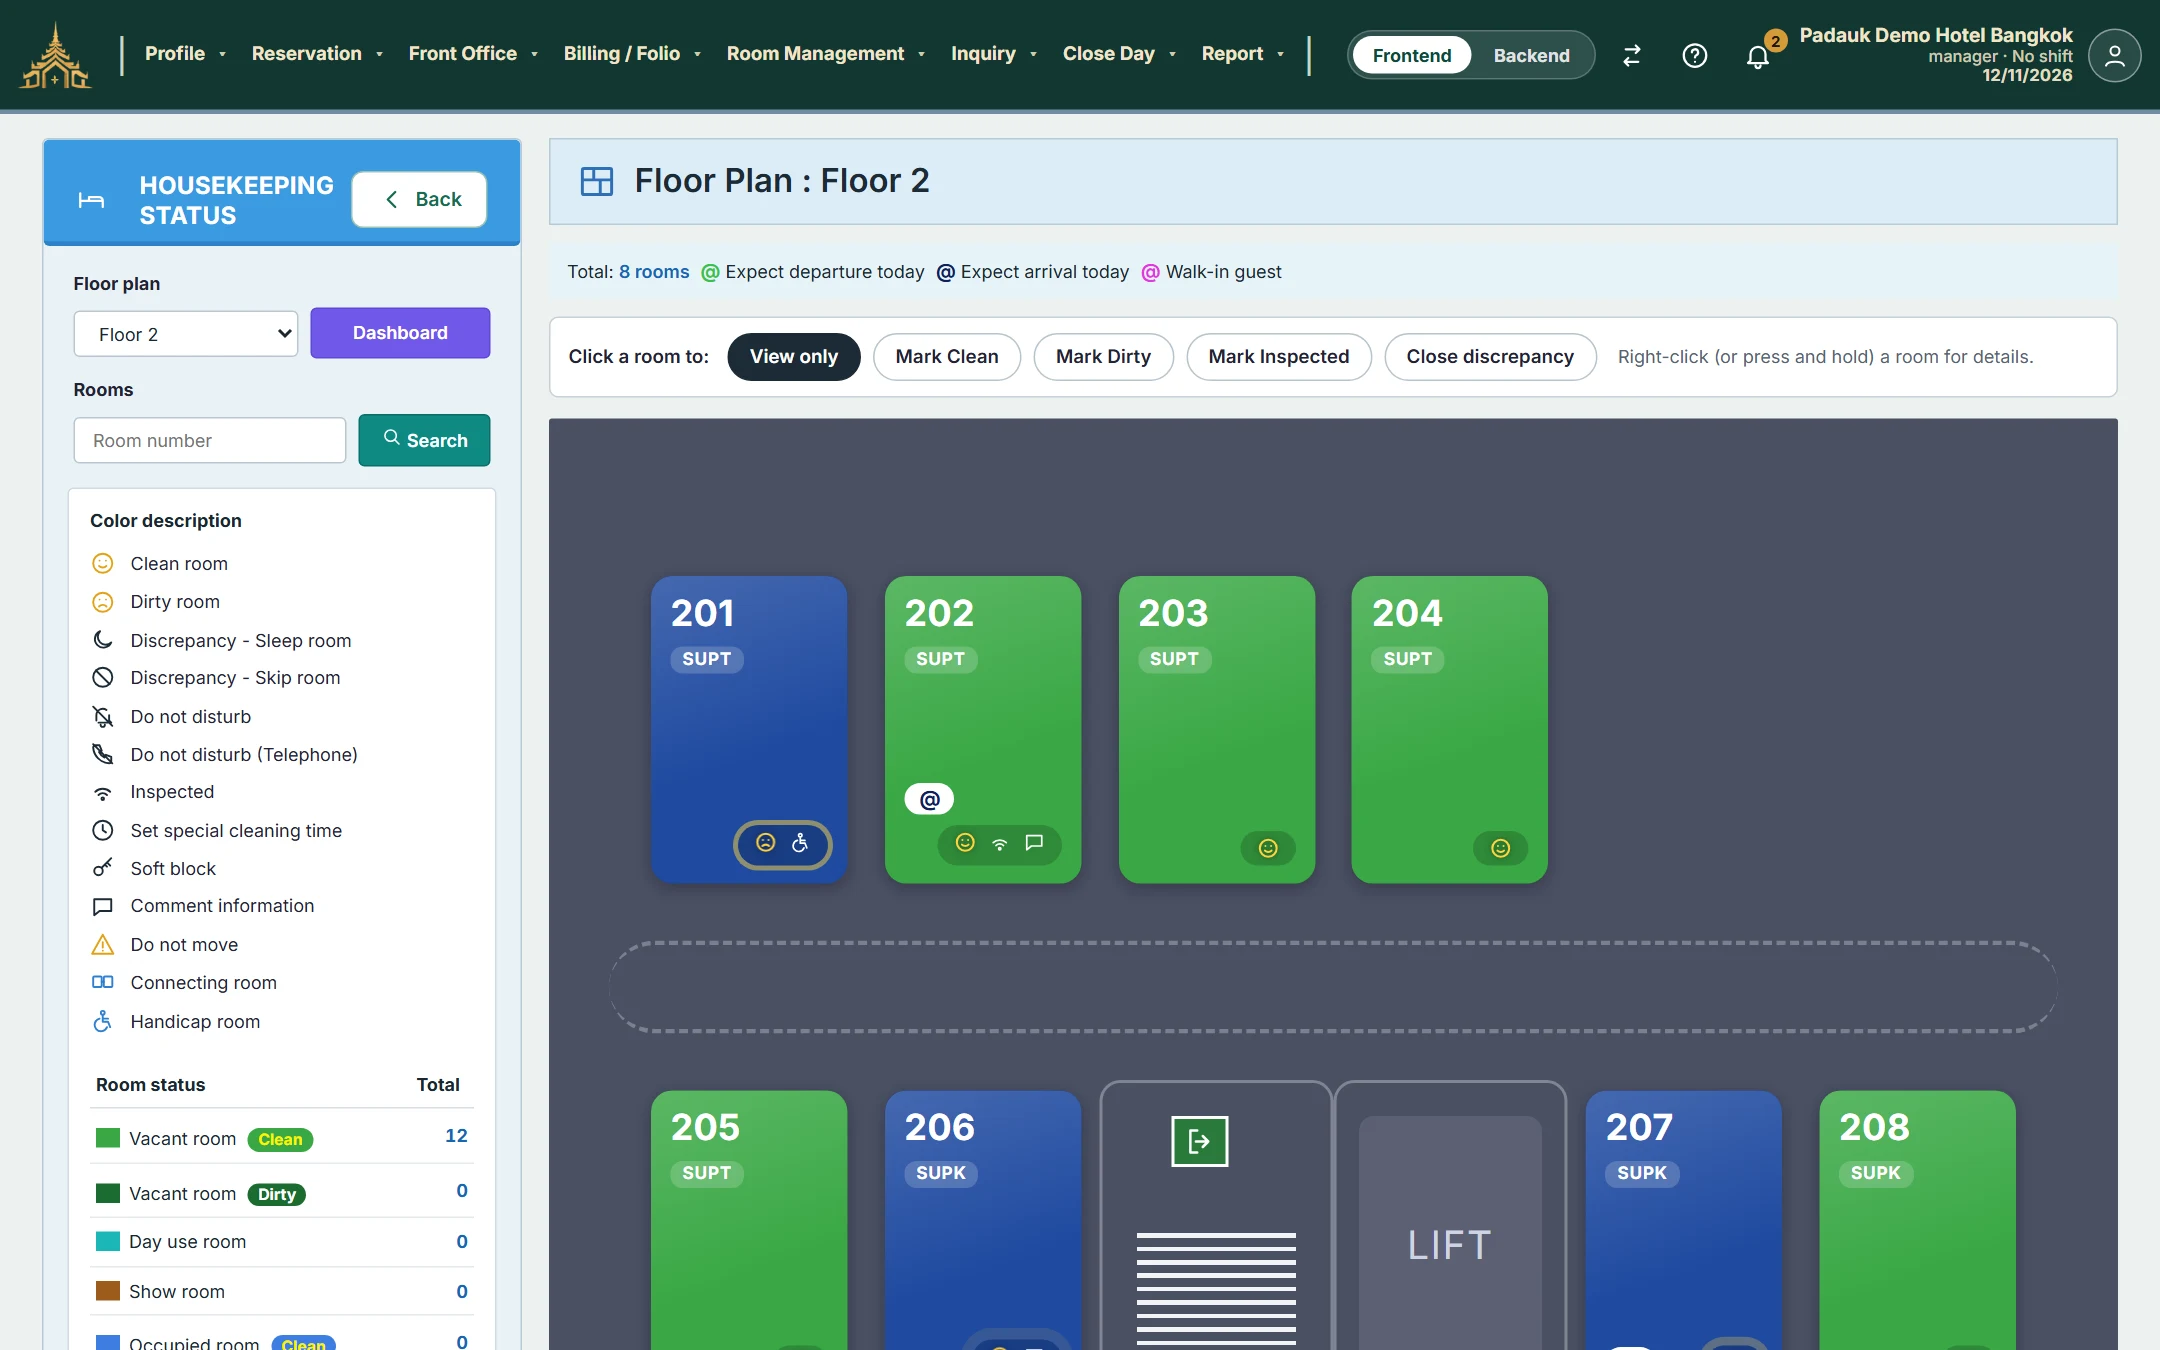
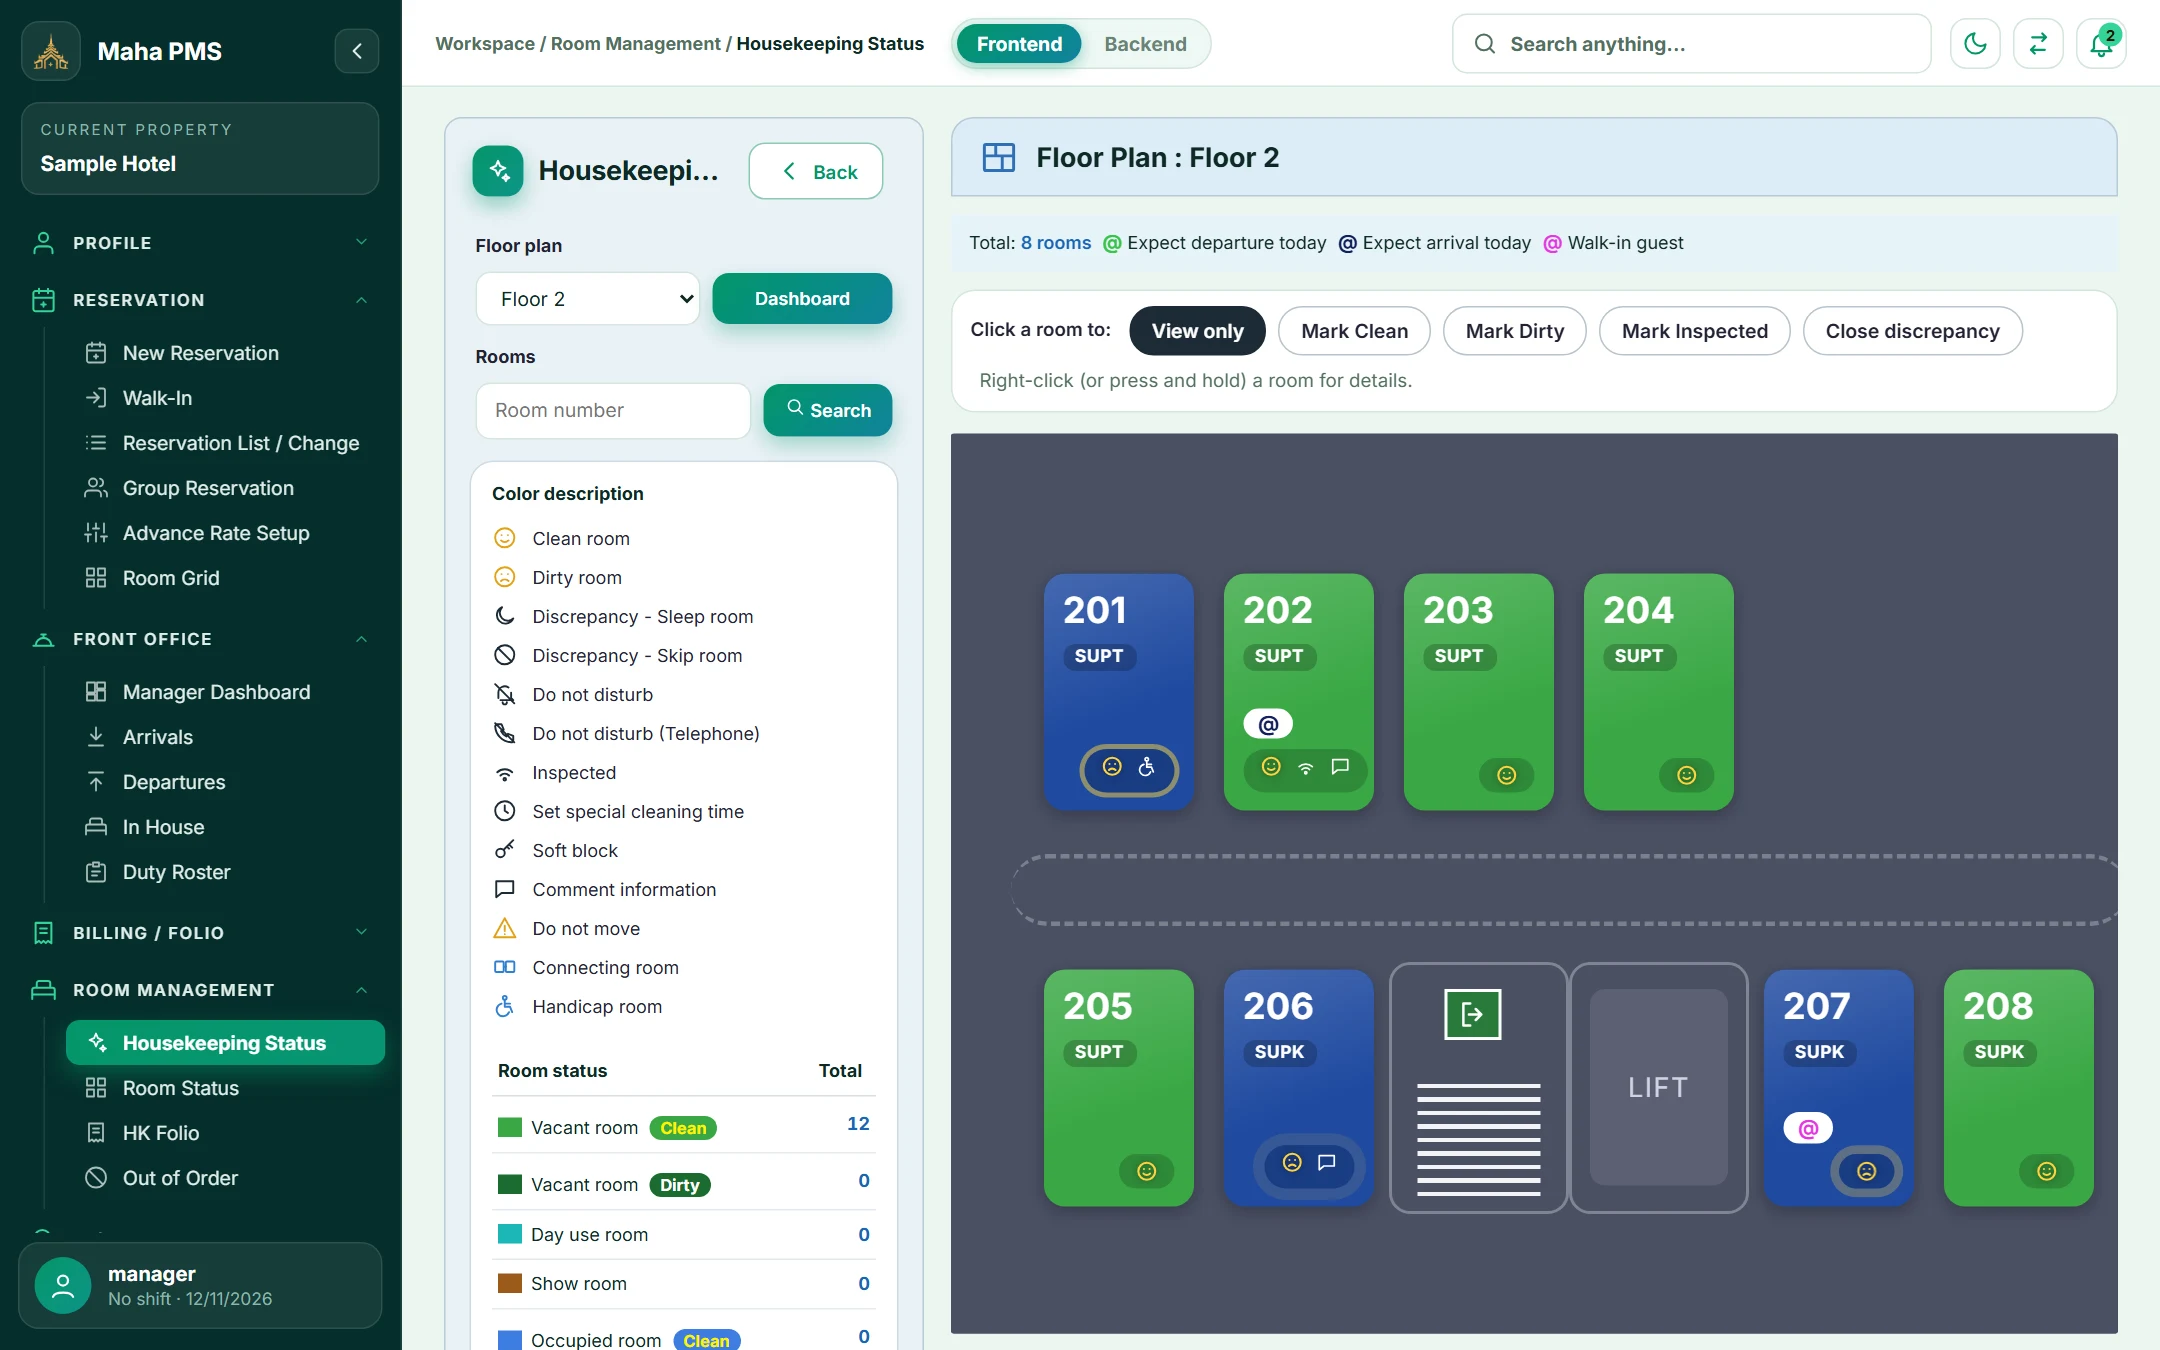
Website screens: Modern look of Maha PMS (left menu), sample names only (Sample Hotel, Guest Sample A, Sample Hotel 01...), near-full screens, Manager dashboard added

diff --git a/index.html b/index.html
@@ -59,7 +59,7 @@
       <div class="trust"><span>Made for hotel teams</span><span>One sign-in</span><span>Honest about what is ready</span></div>
     </div>
     <div class="dev">
-      <div class="laptop"><div class="dots"><i></i><i></i><i></i></div><div class="cyc "><img src="/assets/site/pms-status.webp" alt="Maha PMS: room status (demo data)" data-cap="Maha PMS: room status" width="2160" height="1350" fetchpriority="high"><img src="/assets/site/pms-grid.webp" alt="Maha PMS: room grid (demo data)" data-cap="Maha PMS: room grid" width="2160" height="1350" loading="lazy"><img src="/assets/site/crm-dashboard.webp" alt="Maha Sales: dashboard (demo data)" data-cap="Maha Sales: dashboard" width="2160" height="1350" loading="lazy"><img src="/assets/site/pms-housekeeping.webp" alt="Maha PMS: housekeeping (demo data)" data-cap="Maha PMS: housekeeping" width="2160" height="1350" loading="lazy"><img src="/assets/site/booking-demo.webp" alt="Maha Booking: pick a time (demo data)" data-cap="Maha Booking: pick a time" width="2160" height="1350" loading="lazy"><span class="cap"></span></div></div>
+      <div class="laptop"><div class="dots"><i></i><i></i><i></i></div><div class="cyc "><img src="/assets/site/pms-dashboard.webp" alt="Maha PMS: manager dashboard (demo data)" data-cap="Maha PMS: manager dashboard" width="2160" height="1350" fetchpriority="high"><img src="/assets/site/pms-status.webp" alt="Maha PMS: room status (demo data)" data-cap="Maha PMS: room status" width="2160" height="1350" loading="lazy"><img src="/assets/site/pms-grid.webp" alt="Maha PMS: room grid (demo data)" data-cap="Maha PMS: room grid" width="2160" height="1350" loading="lazy"><img src="/assets/site/crm-dashboard.webp" alt="Maha Sales: dashboard (demo data)" data-cap="Maha Sales: dashboard" width="2160" height="1350" loading="lazy"><img src="/assets/site/pms-housekeeping.webp" alt="Maha PMS: housekeeping (demo data)" data-cap="Maha PMS: housekeeping" width="2160" height="1350" loading="lazy"><img src="/assets/site/booking-demo.webp" alt="Maha Booking: pick a time (demo data)" data-cap="Maha Booking: pick a time" width="2160" height="1350" loading="lazy"><span class="cap"></span></div></div>
       <div class="float a"><i>&#10003;</i>One hotel record for every team</div><div class="float b"><i>&#9733;</i>Direct bookings, no retyping</div>
     </div>
   </div>
@@ -97,14 +97,15 @@
     <div class="sec-head center reveal"><p class="eyebrow">See it working</p><h2>Our real screens, not pictures of ideas.</h2><p class="lead">These are screens from our own systems, shown with demo data. Choose a screen to look closer.</p></div>
     <div class="show reveal">
       <div class="tabs" role="tablist">
-        <button class="tab on" type="button" role="tab"><b>Front desk</b><span>Arrivals, departures and room status</span><i></i></button>
+        <button class="tab on" type="button" role="tab"><b>Manager dashboard</b><span>The day at a glance: arrivals, due out, revenue</span><i></i></button>
+        <button class="tab" type="button" role="tab"><b>Hotel status</b><span>Arrivals, departures and room status</span><i></i></button>
         <button class="tab" type="button" role="tab"><b>Room grid</b><span>Two weeks of bookings at a glance</span><i></i></button>
         <button class="tab" type="button" role="tab"><b>Housekeeping</b><span>Every room on its floor: clean, dirty, inspected</span><i></i></button>
         <button class="tab" type="button" role="tab"><b>Sales dashboard</b><span>Hotel leads and progress</span><i></i></button>
         <button class="tab" type="button" role="tab"><b>Meetings</b><span>Calls and visits, planned and done</span><i></i></button>
         <button class="tab" type="button" role="tab"><b>Direct booking</b><span>Guests pick a time or a room, in their own time zone</span><i></i></button>
       </div>
-      <div class="stage"><div class="cyc"><img src="/assets/site/pms-status.webp" alt="Maha PMS: room status (demo data)" data-cap="Maha PMS: room status" width="2160" height="1350"><img src="/assets/site/pms-grid.webp" alt="Maha PMS: room grid (demo data)" data-cap="Maha PMS: room grid" width="2160" height="1350" loading="lazy"><img src="/assets/site/pms-housekeeping.webp" alt="Maha PMS: housekeeping (demo data)" data-cap="Maha PMS: housekeeping" width="2160" height="1350" loading="lazy"><img src="/assets/site/crm-dashboard.webp" alt="Maha Sales: dashboard (demo data)" data-cap="Maha Sales: dashboard" width="2160" height="1350" loading="lazy"><img src="/assets/site/crm-meetings.webp" alt="Maha Sales: meetings (demo data)" data-cap="Maha Sales: meetings" width="2160" height="1350" loading="lazy"><img src="/assets/site/booking-demo.webp" alt="Maha Booking: pick a time (demo data)" data-cap="Maha Booking: pick a time" width="2160" height="1350" loading="lazy"><span class="cap"></span></div></div>
+      <div class="stage"><div class="cyc"><img src="/assets/site/pms-dashboard.webp" alt="Maha PMS: manager dashboard (demo data)" data-cap="Maha PMS: manager dashboard" width="2160" height="1350"><img src="/assets/site/pms-status.webp" alt="Maha PMS: room status (demo data)" data-cap="Maha PMS: room status" width="2160" height="1350" loading="lazy"><img src="/assets/site/pms-grid.webp" alt="Maha PMS: room grid (demo data)" data-cap="Maha PMS: room grid" width="2160" height="1350" loading="lazy"><img src="/assets/site/pms-housekeeping.webp" alt="Maha PMS: housekeeping (demo data)" data-cap="Maha PMS: housekeeping" width="2160" height="1350" loading="lazy"><img src="/assets/site/crm-dashboard.webp" alt="Maha Sales: dashboard (demo data)" data-cap="Maha Sales: dashboard" width="2160" height="1350" loading="lazy"><img src="/assets/site/crm-meetings.webp" alt="Maha Sales: meetings (demo data)" data-cap="Maha Sales: meetings" width="2160" height="1350" loading="lazy"><img src="/assets/site/booking-demo.webp" alt="Maha Booking: pick a time (demo data)" data-cap="Maha Booking: pick a time" width="2160" height="1350" loading="lazy"><span class="cap"></span></div></div>
     </div>
   </div>
 </section>

diff --git a/products.html b/products.html
@@ -67,7 +67,7 @@
     <p class="lead" style="font-size:18px">The core of Maha Solutions: property, rooms, rates, reservations, front office and billing in one connected workspace.</p>
     
     <div class="hero-cta" style="margin-top:18px"><button class="btn btn-green" type="button" data-book="demo">Book a Demo</button><a class="btn btn-line-dark" href="/solutions">Sign in</a></div></div>
-  <div class="reveal"><div class="card"><h4 style="margin-bottom:14px">What it covers</h4><ul class="ticks" style="margin:0;grid-template-columns:repeat(auto-fit,minmax(200px,1fr))"><li>Property and rooms</li><li>Rates</li><li>Reservations</li><li>Front office</li><li>Folio and billing</li><li>Guest profiles</li><li>Housekeeping</li><li>Reports</li><li>User roles</li></ul></div><div class="dev"><div class="laptop"><div class="dots"><i></i><i></i><i></i></div><div class="cyc "><img src="/assets/site/pms-status.webp" alt="Maha PMS: room status (demo data)" data-cap="Maha PMS: room status" width="2160" height="1350" fetchpriority="high"><img src="/assets/site/pms-grid.webp" alt="Maha PMS: room grid (demo data)" data-cap="Maha PMS: room grid" width="2160" height="1350" loading="lazy"><img src="/assets/site/pms-inhouse.webp" alt="Maha PMS: in-house guests (demo data)" data-cap="Maha PMS: in-house guests" width="2160" height="1350" loading="lazy"><img src="/assets/site/pms-housekeeping.webp" alt="Maha PMS: housekeeping (demo data)" data-cap="Maha PMS: housekeeping" width="2160" height="1350" loading="lazy"><img src="/assets/site/pms-roomstatus.webp" alt="Maha PMS: rooms (demo data)" data-cap="Maha PMS: rooms" width="2160" height="1350" loading="lazy"><img src="/assets/site/pms-arrivals.webp" alt="Maha PMS: arrivals (demo data)" data-cap="Maha PMS: arrivals" width="2160" height="1350" loading="lazy"><span class="cap"></span></div></div></div></div>
+  <div class="reveal"><div class="card"><h4 style="margin-bottom:14px">What it covers</h4><ul class="ticks" style="margin:0;grid-template-columns:repeat(auto-fit,minmax(200px,1fr))"><li>Property and rooms</li><li>Rates</li><li>Reservations</li><li>Front office</li><li>Folio and billing</li><li>Guest profiles</li><li>Housekeeping</li><li>Reports</li><li>User roles</li></ul></div><div class="dev"><div class="laptop"><div class="dots"><i></i><i></i><i></i></div><div class="cyc "><img src="/assets/site/pms-dashboard.webp" alt="Maha PMS: manager dashboard (demo data)" data-cap="Maha PMS: manager dashboard" width="2160" height="1350" fetchpriority="high"><img src="/assets/site/pms-status.webp" alt="Maha PMS: room status (demo data)" data-cap="Maha PMS: room status" width="2160" height="1350" loading="lazy"><img src="/assets/site/pms-grid.webp" alt="Maha PMS: room grid (demo data)" data-cap="Maha PMS: room grid" width="2160" height="1350" loading="lazy"><img src="/assets/site/pms-inhouse.webp" alt="Maha PMS: in-house guests (demo data)" data-cap="Maha PMS: in-house guests" width="2160" height="1350" loading="lazy"><img src="/assets/site/pms-housekeeping.webp" alt="Maha PMS: housekeeping (demo data)" data-cap="Maha PMS: housekeeping" width="2160" height="1350" loading="lazy"><img src="/assets/site/pms-roomstatus.webp" alt="Maha PMS: rooms (demo data)" data-cap="Maha PMS: rooms" width="2160" height="1350" loading="lazy"><img src="/assets/site/pms-arrivals.webp" alt="Maha PMS: arrivals (demo data)" data-cap="Maha PMS: arrivals" width="2160" height="1350" loading="lazy"><span class="cap"></span></div></div></div></div>
 </article>
   <article class="split rev" id="connect" style="padding:44px 0;border-top:1px solid var(--line)">
   <div class="reveal"><span class="tag on">Available now</span>

diff --git a/maha-hub-solutions.html b/maha-hub-solutions.html
@@ -57,7 +57,7 @@
       <p class="lead">Connected software for hotels and accommodation businesses. Every product works from the same hotel data, so teams stop typing the same thing twice.</p>
       <div class="hero-cta"><button class="btn btn-green" type="button" data-book="demo">Book a Demo</button><button class="btn btn-line-dark" type="button" data-book="talk">Talk with the Team</button></div>
     </div>
-    <div class="dev"><div class="laptop"><div class="dots"><i></i><i></i><i></i></div><div class="cyc "><img src="/assets/site/pms-status.webp" alt="Maha PMS: room status (demo data)" data-cap="Maha PMS: room status" width="2160" height="1350" fetchpriority="high"><img src="/assets/site/pms-grid.webp" alt="Maha PMS: room grid (demo data)" data-cap="Maha PMS: room grid" width="2160" height="1350" loading="lazy"><img src="/assets/site/crm-dashboard.webp" alt="Maha Sales: dashboard (demo data)" data-cap="Maha Sales: dashboard" width="2160" height="1350" loading="lazy"><img src="/assets/site/booking-demo.webp" alt="Maha Booking: pick a time (demo data)" data-cap="Maha Booking: pick a time" width="2160" height="1350" loading="lazy"><span class="cap"></span></div></div></div>
+    <div class="dev"><div class="laptop"><div class="dots"><i></i><i></i><i></i></div><div class="cyc "><img src="/assets/site/pms-dashboard.webp" alt="Maha PMS: manager dashboard (demo data)" data-cap="Maha PMS: manager dashboard" width="2160" height="1350" fetchpriority="high"><img src="/assets/site/pms-grid.webp" alt="Maha PMS: room grid (demo data)" data-cap="Maha PMS: room grid" width="2160" height="1350" loading="lazy"><img src="/assets/site/crm-dashboard.webp" alt="Maha Sales: dashboard (demo data)" data-cap="Maha Sales: dashboard" width="2160" height="1350" loading="lazy"><img src="/assets/site/booking-demo.webp" alt="Maha Booking: pick a time (demo data)" data-cap="Maha Booking: pick a time" width="2160" height="1350" loading="lazy"><span class="cap"></span></div></div></div>
   </div>
 </section>
 <section class="section">

diff --git a/tests/sync/website-test.js b/tests/sync/website-test.js
@@ -12,7 +12,7 @@ const known = new Set(['/', '/favicon.ico', '/solutions', '/solutions-PMS', '/ec
 const exists = href => { const p = href.split('#')[0].split('?')[0]; if (!p || known.has(p)) return true; if (/^\/(assets|brand|icons)\//.test(p)) return fs.existsSync(path.join(root, p)); return fs.existsSync(path.join(root, p.replace(/^\//, '') + '.html')); };
 const broken = [];
 for (const p of pages) for (const m of html(p).matchAll(/(?:href|src)="(\/[^"]*)"/g)) if (!exists(m[1])) broken.push(p + ': ' + m[1]);
-T('real system screens exist and are used', ['pms-status','pms-grid','pms-housekeeping','crm-dashboard','crm-meetings','booking-demo'].every(n => fs.existsSync(path.join(root, 'assets', 'site', n + '.webp'))) && /assets\/site\/pms-status\.webp/.test(html('index')) && /assets\/site\/pms-grid\.webp/.test(html('products')));
+T('real system screens exist and are used', ['pms-dashboard','pms-status','pms-grid','pms-housekeeping','crm-dashboard','crm-meetings','booking-demo'].every(n => fs.existsSync(path.join(root, 'assets', 'site', n + '.webp'))) && /assets\/site\/pms-status\.webp/.test(html('index')) && /assets\/site\/pms-grid\.webp/.test(html('products')));
 T('Book a Demo and Talk with the Team open the booking window from every page header', pages.filter(p => !['reset-password','404'].includes(p)).every(p => /data-book="demo"/.test(html(p))) && /crm\.maha-hub\.com\/book\//.test(fs.readFileSync(path.join(root, 'assets', 'group.js'), 'utf8')) && /frame-src https:\/\/crm\.maha-hub\.com/.test(fs.readFileSync(path.join(root, '_headers'), 'utf8')));
 T('every inside link and picture leads somewhere', broken.length === 0, broken.slice(0, 5).join(' ; '));
 const anchors = [];
